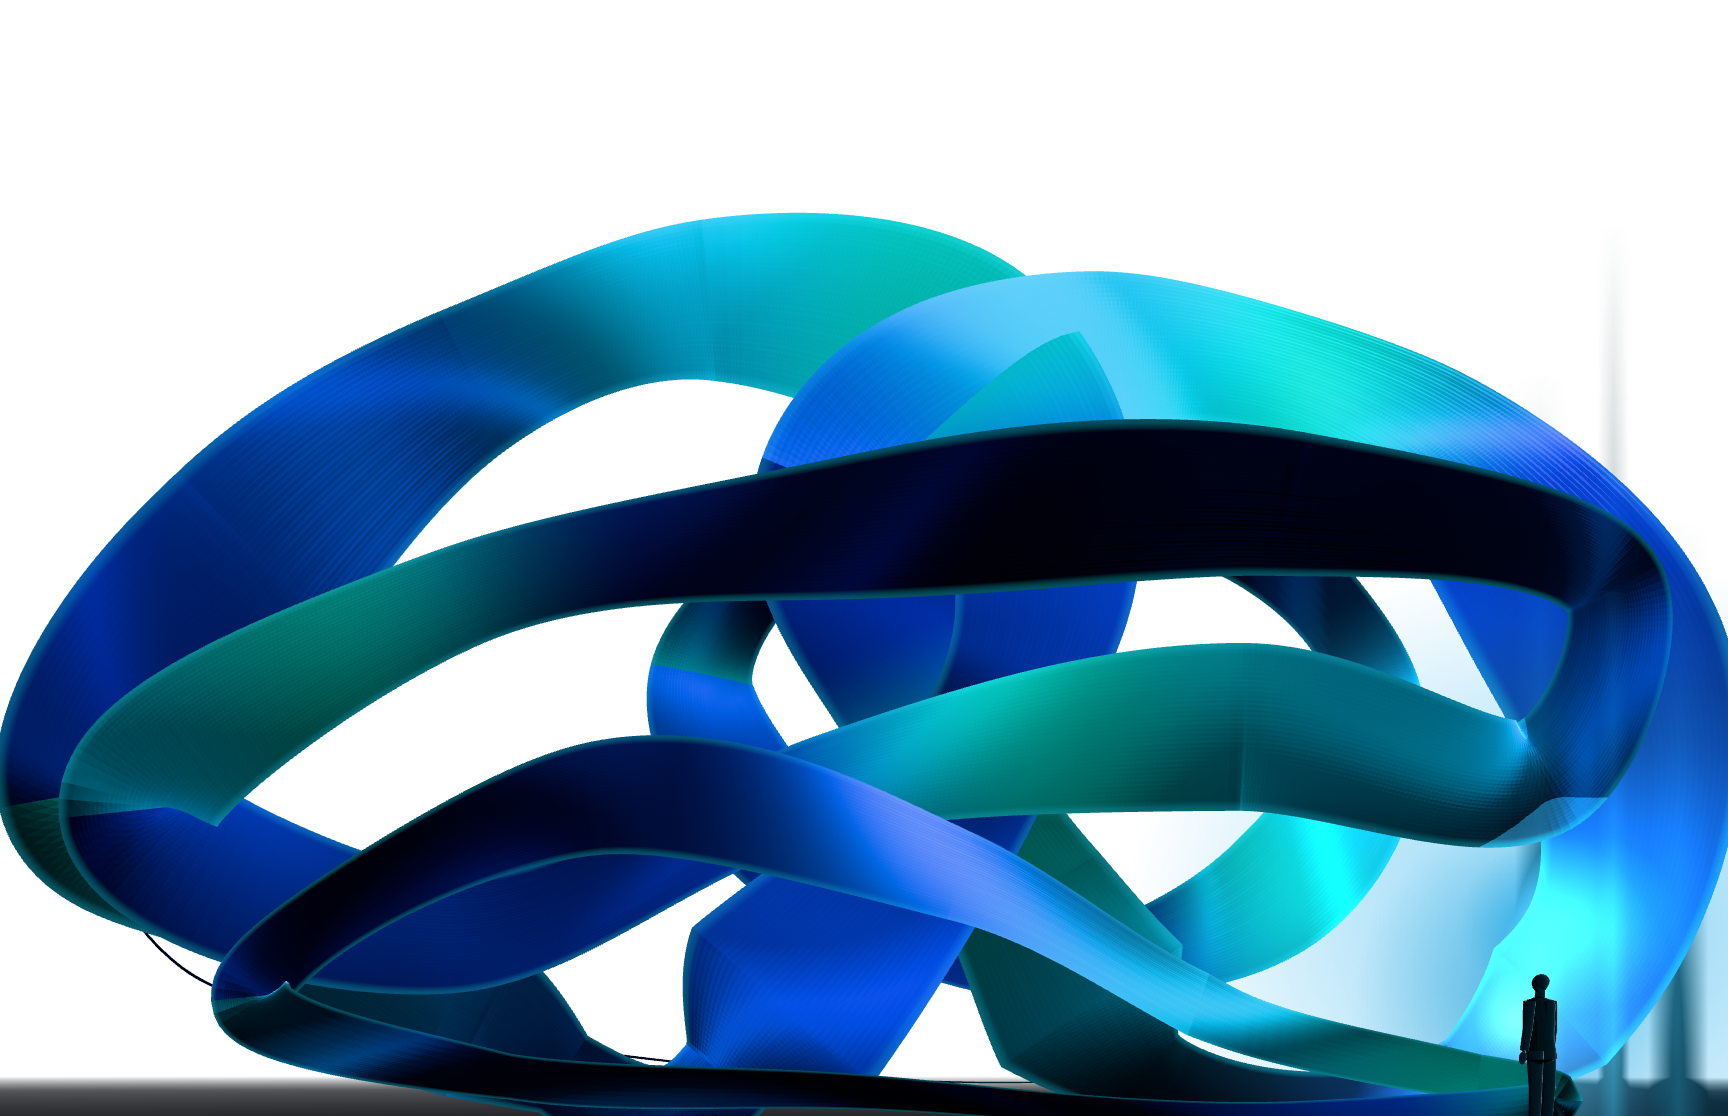
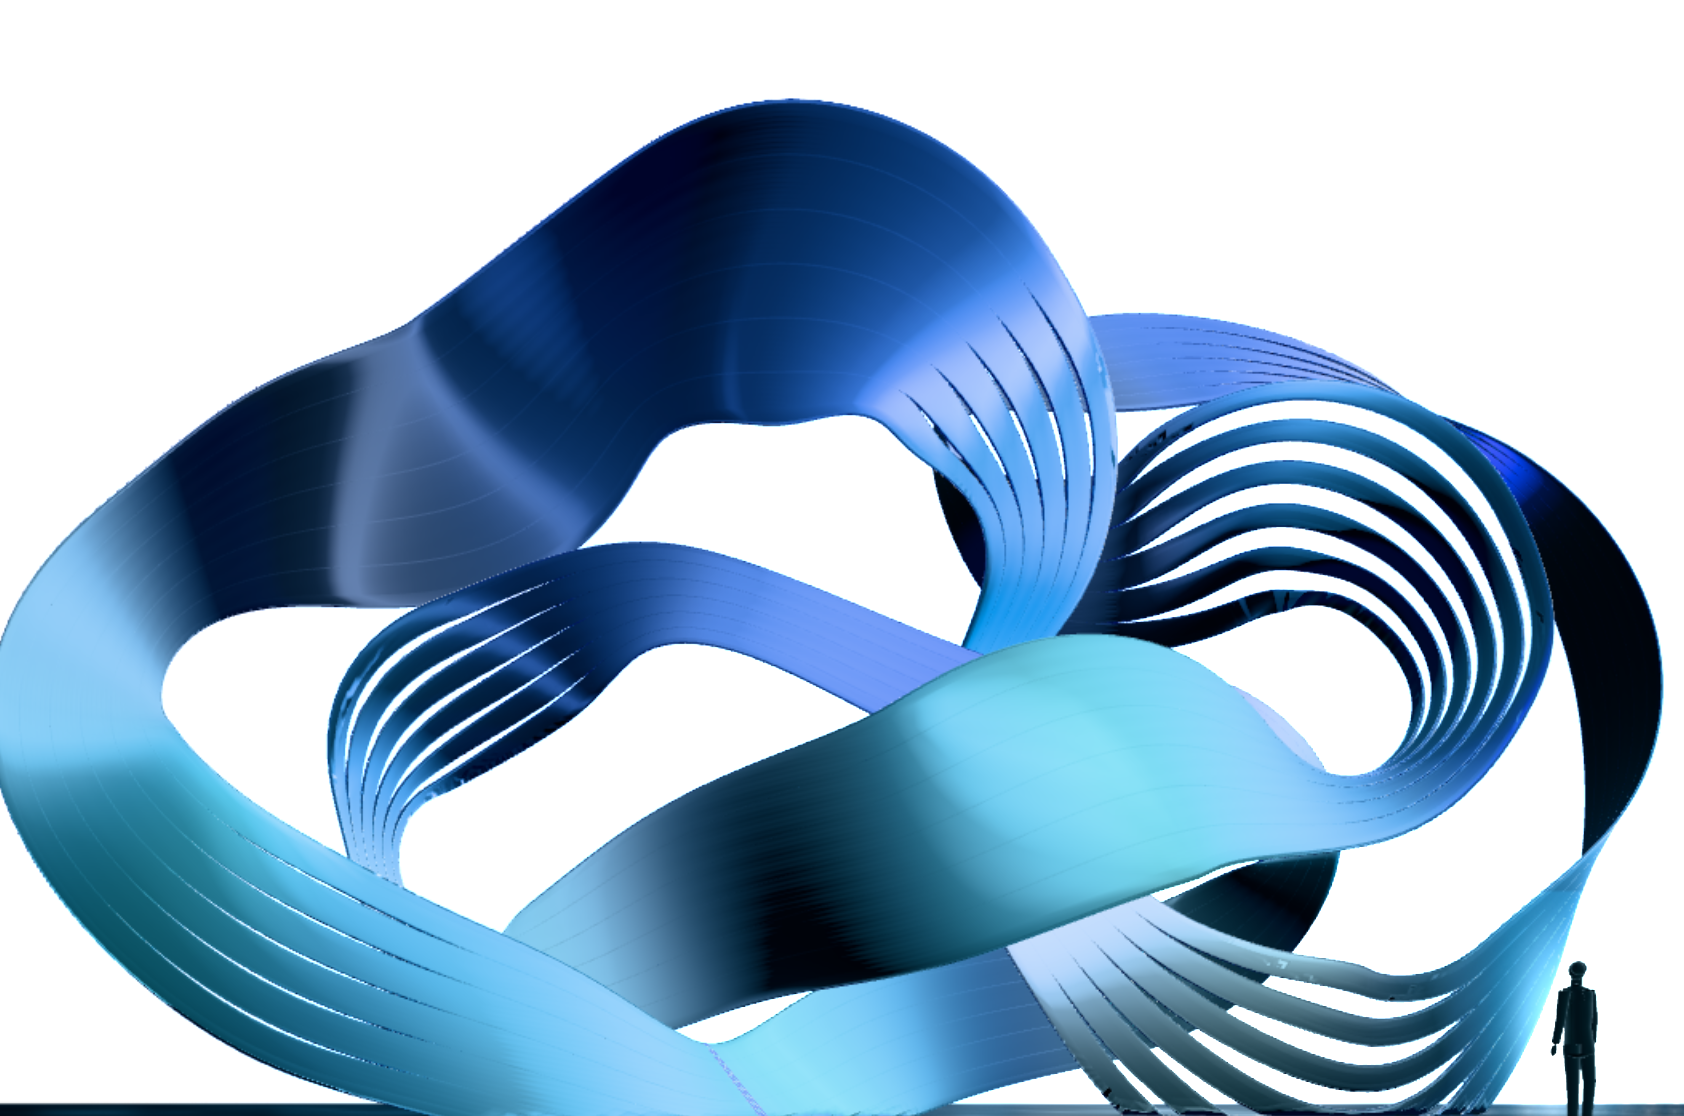
feat(hero): HERO-FINAL-001 — V2.3 refinada como forma padrão do protótipo
Sem ?forma o protótipo carrega a Blender V2.3 com os acabamentos dos Ciclos
01–06 (/ idêntica a ?forma=blender2-v23). Forma C, V2.2 e V2.3r preservadas
por ?forma=. Pôster regenerado da V2.3 (o anterior era da forma C).
Documentação de encerramento: estado dos ciclos, validação, PERF-001,
limitações, chaves de comparação a remover e dependências da integração.

diff --git a/prototypes/hero-3d/src/three/engine.ts b/prototypes/hero-3d/src/three/engine.ts
@@ -56,9 +56,16 @@ export interface EngineOptions {
  * lâmina esculpida — `escultura-v2[sufixo].glb`) ou ?forma=blender-teste (prova de
  * integração): carrega o GLB antes de criar o motor. Qualquer outra forma: null.
  */
+/**
+ * Forma padrão do protótipo (HERO-FINAL-001): a Blender V2.3 refinada nos Ciclos 01–06.
+ * As outras continuam acessíveis por ?forma= (c, blender2-v22, blender2-v23r, ...).
+ */
+export const DEFAULT_FORMA = "blender2-v23";
+const formaFrom = (params: URLSearchParams) => params.get("forma") || DEFAULT_FORMA;
+
 export async function preloadSculpture(): Promise<BufferGeometry | null> {
   const params = new URLSearchParams(window.location.search);
-  const forma = params.get("forma") ?? "";
+  const forma = formaFrom(params);
   const v2 = /^blender2([a-z0-9-]*)$/.exec(forma);
   if (forma !== "blender" && forma !== "blender-teste" && !v2) return null;
   const { loadBlenderGeometry } = await import("./sculpture/blenderSculpture");
@@ -131,7 +138,7 @@ export function createHeroEngine(opts: EngineOptions): HeroEngine {
   const useKnot = params.get("geo") === "knot";
   const uniforms = createSculptureUniforms();
   // ?forma=v32 | a | b — variantes da escultura preservadas para comparação.
-  const formParam = params.get("forma");
+  const formParam = formaFrom(params);
   const form = isFormName(formParam) ? formParam : DEFAULT_FORM;
   const blender = opts.sculpture ? buildFromBlender(opts.sculpture) : null;
   const monument = useKnot ? null : (blender ?? createMonumentGeometry(profile.geometry, form));

diff --git a/docs/fiorbe/HERO_PROTOTIPO.md b/docs/fiorbe/HERO_PROTOTIPO.md
@@ -2,6 +2,16 @@
 
 > Registro **técnico** das rodadas (decisões, arquitetura, medições). Status e aprovações ficam no painel de `docs/fiorbe/ESTADO.md`; plano de cada componente em `docs/fiorbe/tarefas/`.
 
+## HERO-FINAL-001 — consolidação (26/10/2026)
+
+**Forma padrão:** `DEFAULT_FORMA = "blender2-v23"` em `src/three/engine.ts` — sem `?forma`, o protótipo carrega a V2.3 com malha `escultura-v2-v23c.glb` e os acabamentos dos Ciclos 02 (piso), 03 (figura), 04 (metal) e 05 (luz); a interface do Ciclo 06 e a composição do Ciclo 01 valem para todas as formas. `?forma=c | blender2-v22 | blender2-v23r` continuam funcionando (conferido). **Pôster** `src/assets/hero-poster.png` regenerado da V2.3 (`scripts/poster.mjs`); o anterior era da forma C. O pôster contém só a escultura (as luzes aditivas não sobrevivem ao fundo transparente) e o 3D assume com esmaecimento de 900 ms.
+
+**Chaves de comparação ainda presentes** (remover ou congelar na integração de produção): `?forma`, `?piso=c02|atual`, `?figura=c03|atual`, `?escultura=atual|<sufixo>`, `?luz=c05|atual`, `?metal04=0`, `?metal`, `?escovado`, `?ambiente=v1`, `?onda=0`, `?fios=1`, `?clay`, `?vista`, `?lado`, `?pose`, `?gestos`, `?ondadebug`, `?pisodebug`, `?tier`, `?nowebgl`, `?debug` (e o objeto `window.__fiorbe`, só com `?debug`).
+
+**Limitações abertas (não bloqueadoras):** GPU da V2.3 a 1440 na UHD 630 em 17,2–17,7 ms (quadros perdidos de 0–7% na interação; alternativas em PERF-001); Safari real e dispositivos físicos não testados (WebKit/Windows não aplica o peso da fonte variável); pontas do leque pela fresta do redemoinho; serrilhado subpixel; trecho curto só com a escultura na transição (rever com o manifesto definitivo); colunas de luz planas; pôster sem as luzes de fundo.
+
+**Dependências para a landing definitiva:** ver "Contratos para a integração" na validação final — decisões de DS-001/DS-002 (paleta, tipografia, lettering, tokens), seção real com `#flow-rule`, conteúdo do manifesto e das seções, remoção das chaves acima, servir o GLB (3,9 MB) com cache e compressão.
+
 ## PERF-001 — reflexo do piso com 7 toques (26/10/2026) — descartado
 
 Experimento isolado (`?reflexo=7`, 7 toques cobrindo a mesma extensão ±len e o mesmo perfil gaussiano) contra o padrão de 9 toques, V2.3, 1440×900, DPR 1, tier alto, alternado na mesma sessão.
